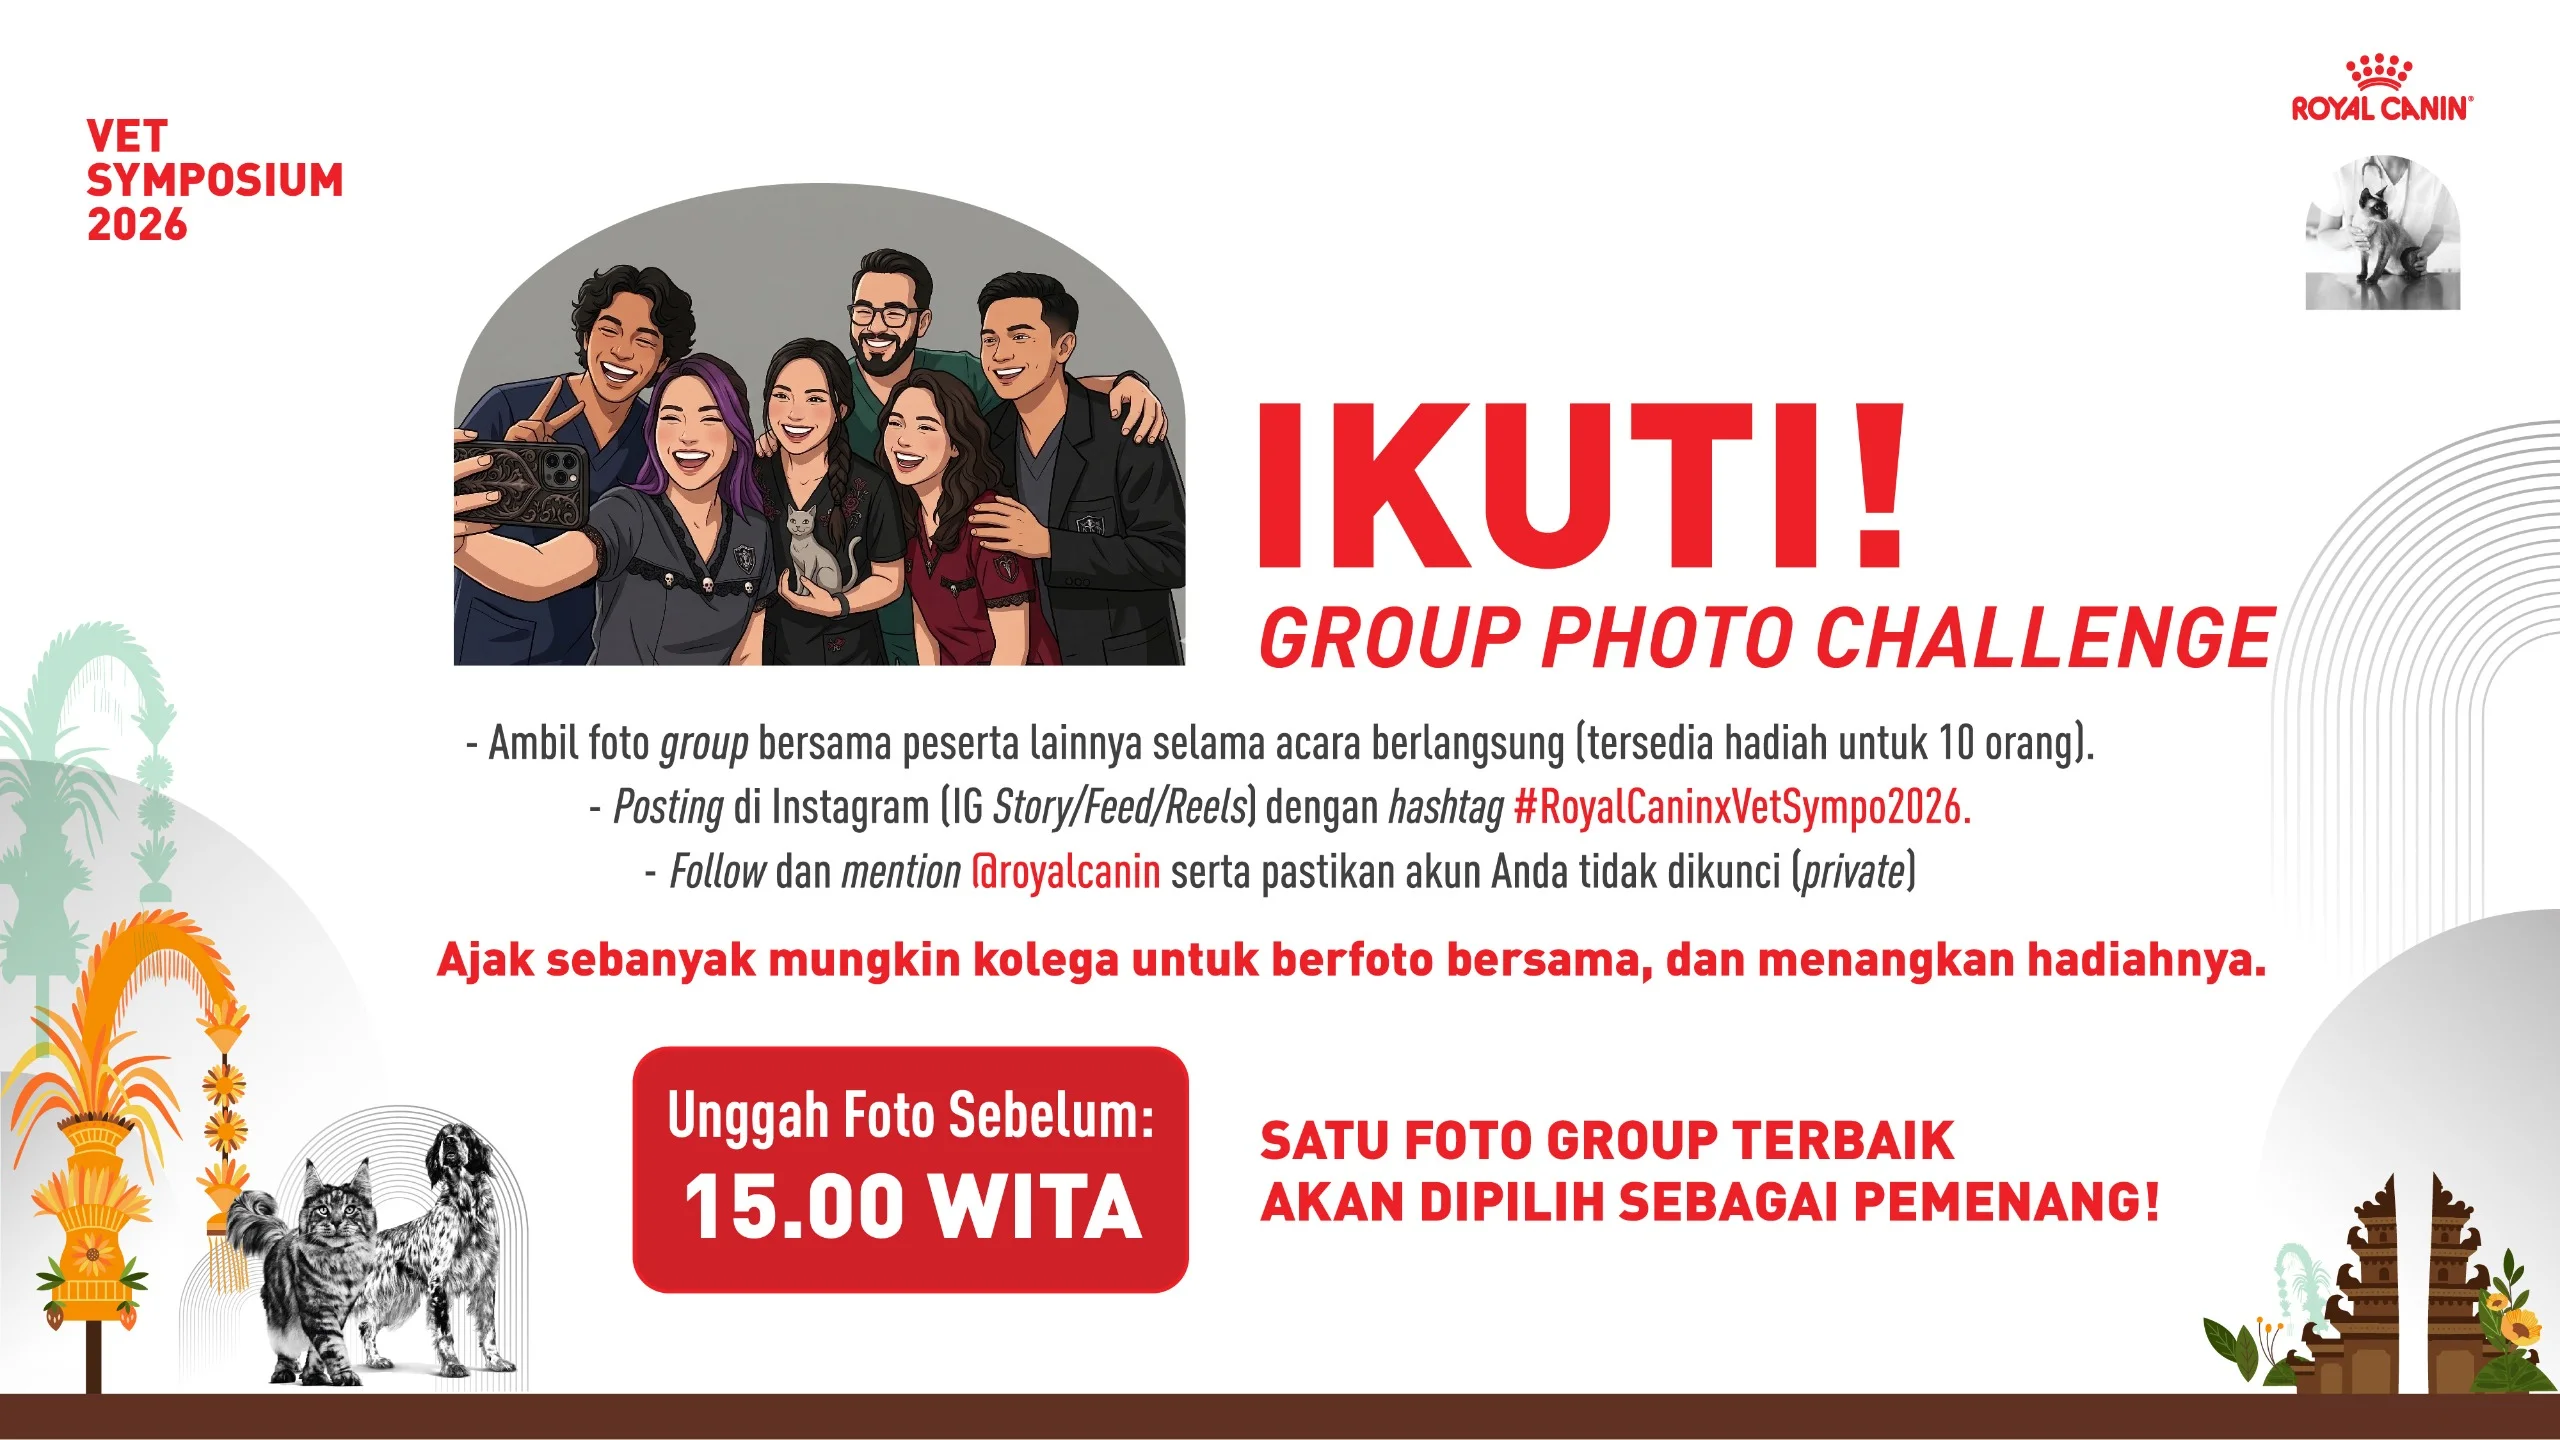
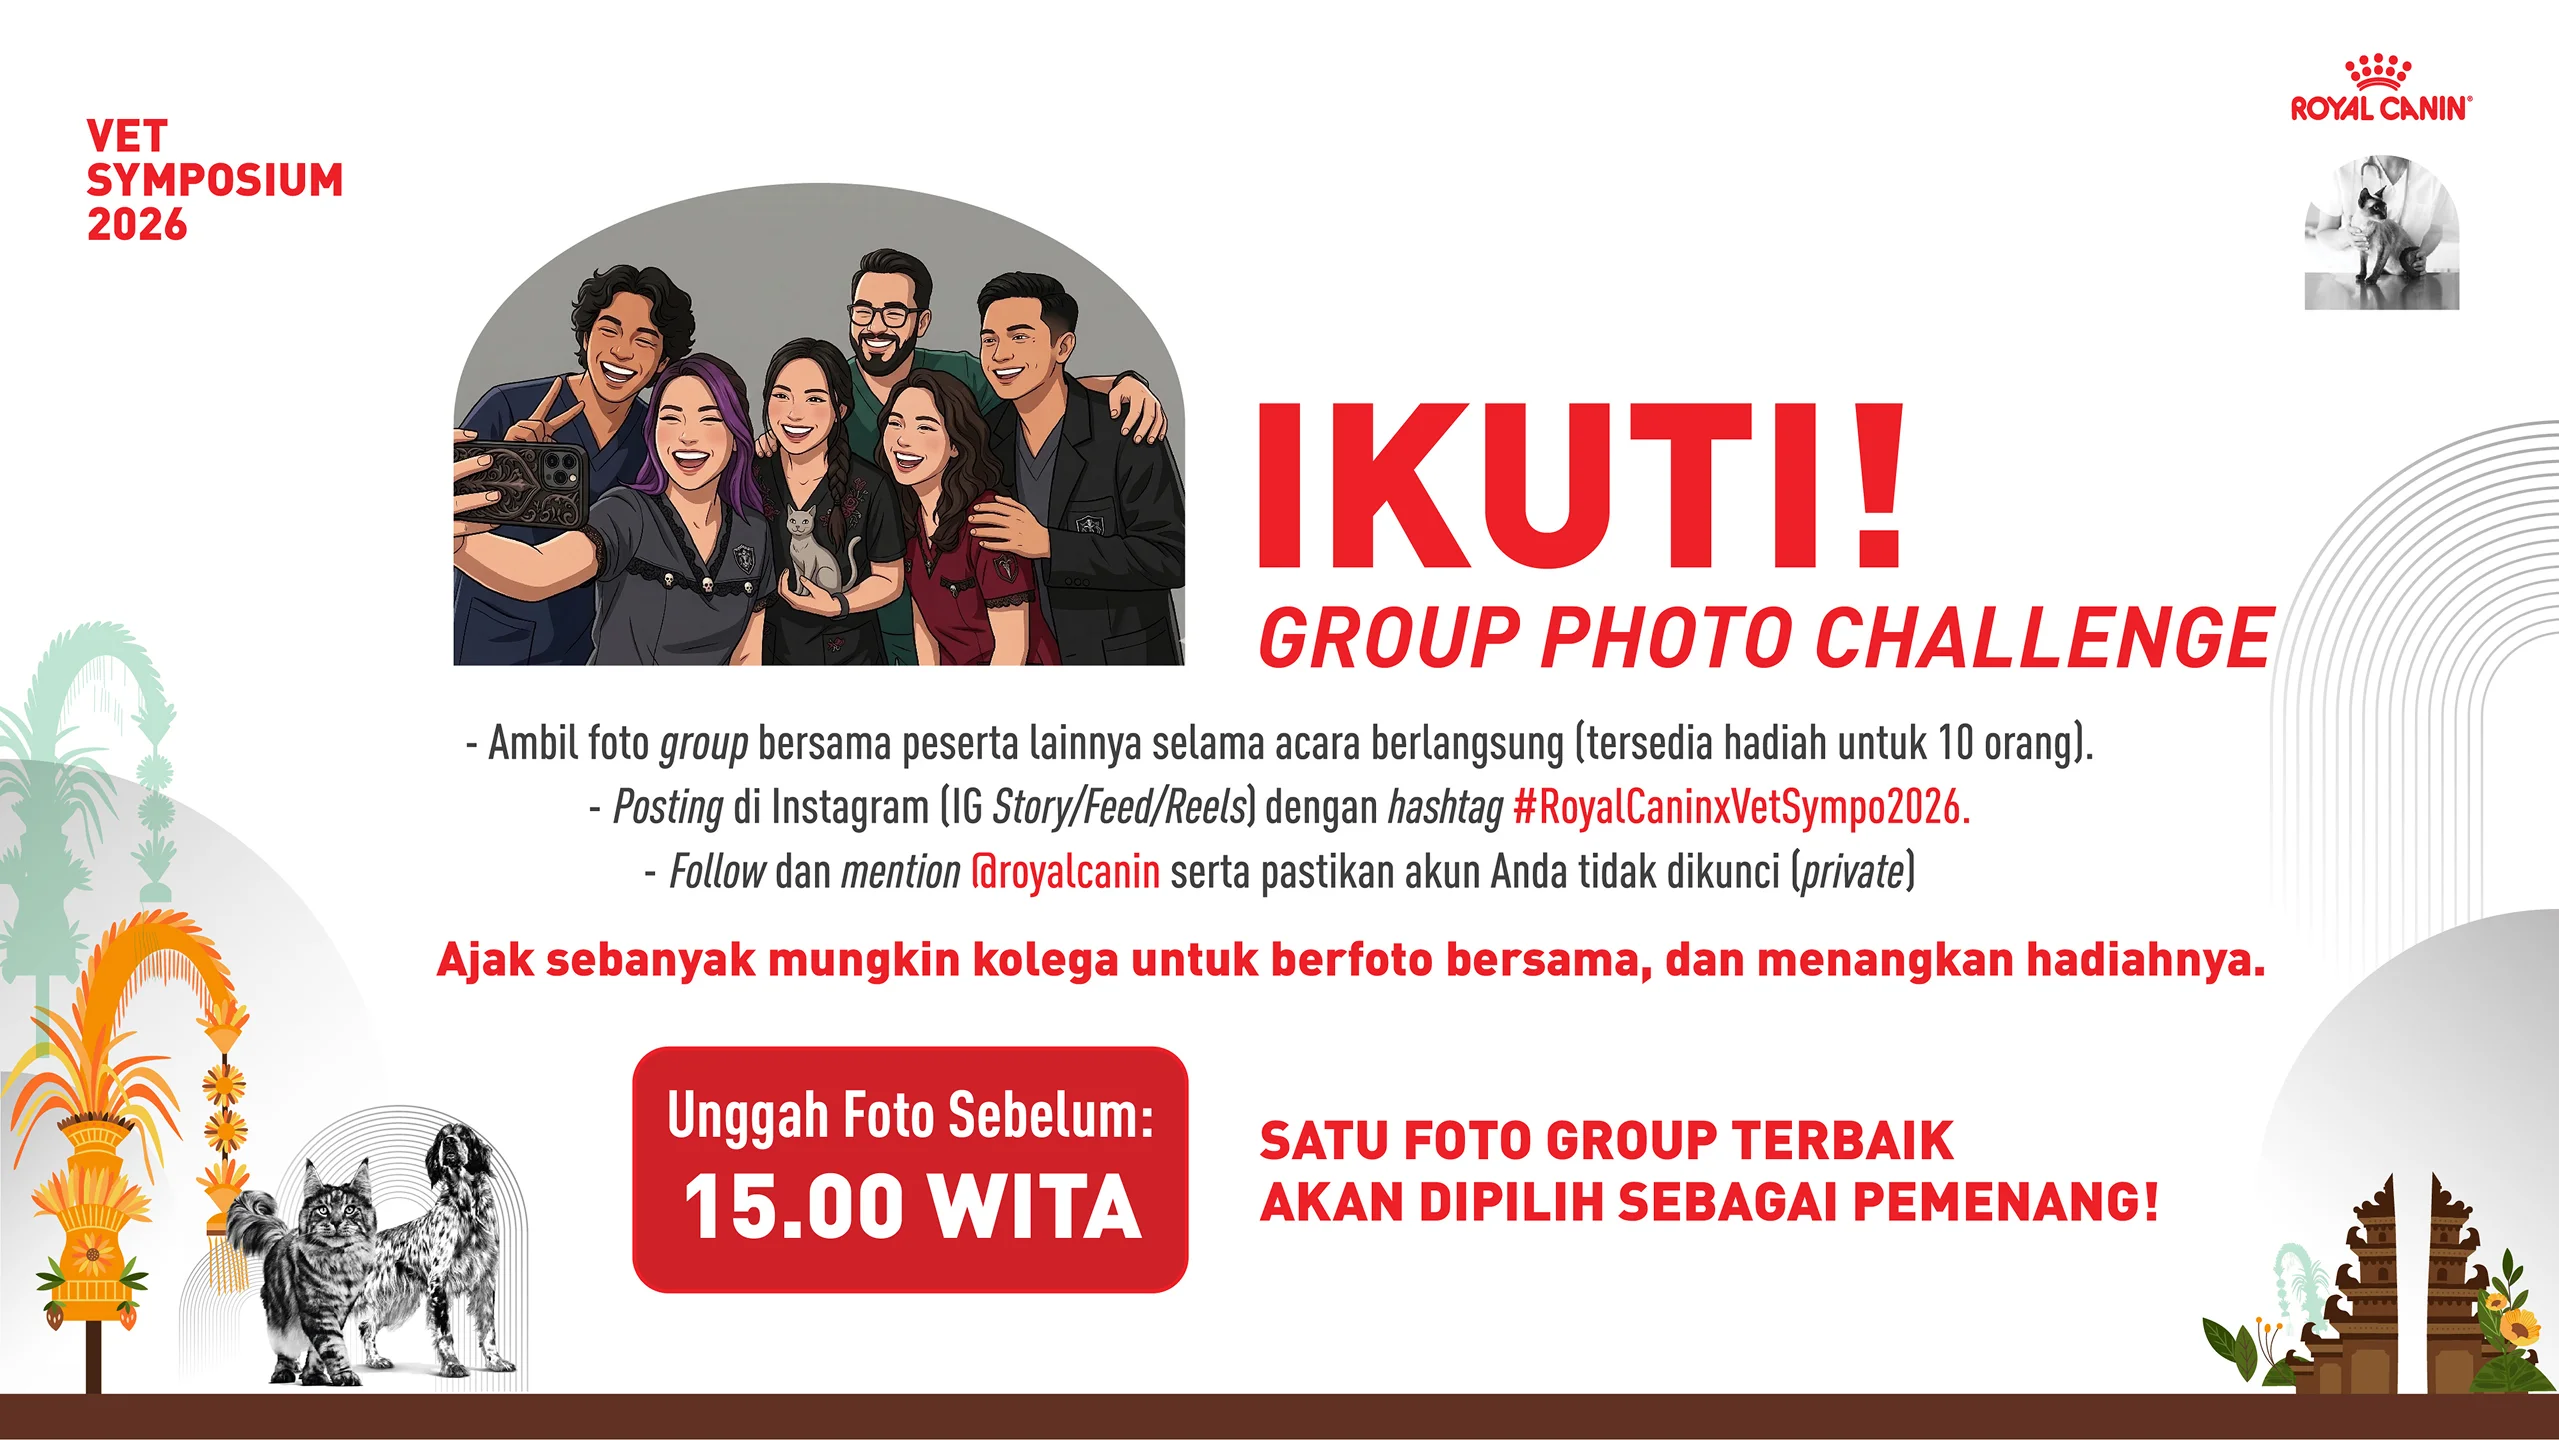
update: adjust scheduler open button & menu for opening event

diff --git a/src/app/event/schedule/page.tsx b/src/app/event/schedule/page.tsx
@@ -1,5 +1,12 @@
 import Link from 'next/link';
 import { ScheduleMaterialDownloadButton } from '@/components/event/ScheduleMaterialDownloadButton';
+import {
+  MATERIAL_DOWNLOAD_P1_OPEN_AT,
+  MATERIAL_DOWNLOAD_P2_OPEN_AT,
+  MATERIAL_DOWNLOAD_P3_OPEN_AT,
+  MATERIAL_DOWNLOAD_P4_OPEN_AT,
+  MATERIAL_DOWNLOAD_P5_OPEN_AT,
+} from '@/lib/eventMenuFeaturesOpenAt';
 
 type AgendaItem = {
   time: string;
@@ -11,6 +18,8 @@ type AgendaItem = {
   theme?: string;
   isItalic?: boolean;
   materialUrl?: string;
+  /** Epoch ms saat tombol unduh aktif (`Date#getTime()` dari konstanta di `eventMenuFeaturesOpenAt`). */
+  materialOpensAtMs?: number;
 };
 
 const agendaData: AgendaItem[] = [
@@ -30,6 +39,7 @@ const agendaData: AgendaItem[] = [
     duration: '35 Menit',
     title: 'Peluncuran & Presentasi Produk',
     materialUrl: '/assets/pdf/Panduan-Nutrisi-Praktis.pdf',
+    materialOpensAtMs: MATERIAL_DOWNLOAD_P1_OPEN_AT.getTime(),
   },
   {
     time: '09.55 - 10.20',
@@ -45,7 +55,8 @@ const agendaData: AgendaItem[] = [
     title: 'Sesi Seminar Bersama:',
     speaker: 'Dr. Adam J. Rudinsky, DVM, MS, DACVIM (SAIM)',
     theme: 'Fibre Forward: Unlocking The Power of Fibre in Managing GI Health',
-    materialUrl: '/assets/pdf/Fibre-Forward.pdf',
+    materialUrl: '/assets/pdf/Panduan-Nutrisi-Praktis.pdf',
+    materialOpensAtMs: MATERIAL_DOWNLOAD_P2_OPEN_AT.getTime(),
   },
   {
     time: '11.20 - 12.20',
@@ -54,7 +65,8 @@ const agendaData: AgendaItem[] = [
     speaker: 'Dr. Adam J. Rudinsky, DVM, MS, DACVIM (SAIM)',
     theme:
       'Dietary Fiber Aids in The Management of Cat and Dog Gastrointestinal Disease',
-    materialUrl: '/assets/pdf/Dietary-Fiber.pdf',
+    materialUrl: '/assets/pdf/Panduan-Nutrisi-Praktis.pdf',
+    materialOpensAtMs: MATERIAL_DOWNLOAD_P3_OPEN_AT.getTime(),
   },
   {
     time: '12.20 - 13.40',
@@ -71,7 +83,8 @@ const agendaData: AgendaItem[] = [
     speaker: 'Prof. drh. Deni Noviana, Ph.D., DAiCVIM',
     theme:
       'Diagnostic Imaging of Gastrointestinal Disorders in Cats and Dogs: Focus on Fibre-Related and Common Clinical Conditions',
-    materialUrl: '/assets/pdf/Diagnostic-Imaging.pdf',
+    materialUrl: '/assets/pdf/Panduan-Nutrisi-Praktis.pdf',
+    materialOpensAtMs: MATERIAL_DOWNLOAD_P4_OPEN_AT.getTime(),
   },
   {
     time: '14.40 - 15.40',
@@ -80,7 +93,8 @@ const agendaData: AgendaItem[] = [
     speaker: 'drh. Luh Putu Listriani Wistawan',
     theme:
       'From Diagnosis to Therapy: Case-Based Insights and Nutritional Guidance for Fibre-Related GI Problems',
-    materialUrl: '/assets/pdf/From-Diagnosis-to-Therapy.pdf',
+    materialUrl: '/assets/pdf/Panduan-Nutrisi-Praktis.pdf',
+    materialOpensAtMs: MATERIAL_DOWNLOAD_P5_OPEN_AT.getTime(),
   },
   {
     time: '15.40 - 16.05',
@@ -164,9 +178,10 @@ export default function AgendaPage() {
                     Durasi: {item.duration}
                   </p>
                 ) : null}
-                {showMaterialButton ? (
+                {showMaterialButton && item.materialOpensAtMs != null ? (
                   <ScheduleMaterialDownloadButton
                     href={item.materialUrl ?? '#'}
+                    opensAtMs={item.materialOpensAtMs}
                   />
                 ) : null}
               </div>

diff --git a/src/lib/eventMenuFeaturesOpenAt.ts b/src/lib/eventMenuFeaturesOpenAt.ts
@@ -1,25 +1,48 @@
-/** WITA — menu Informasi Umum, Kuis, dan Activity (bottom nav) aktif dari waktu ini. */
-export const EVENT_MENU_FEATURES_OPEN_AT = new Date(
-  '2026-05-04T21:00:00+08:00',
-);
-
-/** WITA — tombol Kirim Pertanyaan & Beri Tanggapan di halaman Seminar tampil dari waktu ini. */
-export const SEMINAR_BOTTOM_ACTIONS_OPEN_AT = new Date(
-  '2026-05-04T10:00:00+08:00',
-);
-
-/** WITA — tombol Unduh Materi pada item agenda “Sesi Seminar Bersama” aktif dari waktu ini. */
-export const SCHEDULE_MATERIAL_DOWNLOAD_OPEN_AT = new Date(
-  '2026-05-04T22:00:00+08:00',
-);
-
-
-/** WITA — tombol Check-In aktif dari waktu ini. */
-export const CHECKIN_OPENS_AT = new Date(
-  '2026-05-04T07:55:00+08:00',
-);
-
-/** WITA — carousel banner beranda `/event` tampil dari 5 Mei pukul 00:00 WITA (tengah malam). */
+/** WITA 4 Mei 2026 00:00 — carousel banner beranda `/event` tampil dari 4 Mei pukul 00:00 WITA (tengah malam). */
 export const HOME_BANNER_VISIBLE_AT = new Date(
-  '2026-05-05T00:00:00+08:00',
+  '2026-05-04T00:00:00+08:00',
 );
+
+/** WITA 5 Mei 2026 06:00 — Button Check-In aktif dari waktu ini. */
+export const CHECKIN_OPENS_AT = new Date(
+  '2026-05-05T06:00:00+08:00',
+);
+
+/** WITA 5 Mei 2026 06:00 — Menu Informasi Umum, Kuis, dan Activity (bottom nav) aktif dari waktu ini. */
+export const EVENT_MENU_FEATURES_OPEN_AT = new Date(
+  '2026-05-05T06:00:00+08:00',
+);
+
+/** WITA 5 Mei 2026 09:15 — Agenda “Peluncuran & Presentasi Produk” menampilkan tombol Unduh Materi. */
+export const MATERIAL_DOWNLOAD_P1_OPEN_AT = new Date(
+  '2026-05-05T09:15:00+08:00',
+);
+
+/** WITA 5 Mei 2026 10:15 — Agenda “Seminar Dr. Adam J. Rudinsky, DVM, MS, DACVIM (SAIM)” menampilkan tombol Unduh Materi. */
+export const MATERIAL_DOWNLOAD_P2_OPEN_AT = new Date(
+  '2026-05-05T10:15:00+08:00',
+);
+
+/** WITA 5 Mei 2026 11:15 — Agenda “Seminar Dr. Adam J. Rudinsky, DVM, MS, DACVIM (SAIM)” menampilkan tombol Unduh Materi. */
+export const MATERIAL_DOWNLOAD_P3_OPEN_AT = new Date(
+  '2026-05-05T11:15:00+08:00',
+);
+
+/** WITA 5 Mei 2026 13:35 — Agenda “Seminar Prof. drh. Deni Noviana, Ph.D., DAiCVIM” menampilkan tombol Unduh Materi. */
+export const MATERIAL_DOWNLOAD_P4_OPEN_AT = new Date(
+  '2026-05-05T13:35:00+08:00',
+);
+
+/** WITA 5 Mei 2026 14:35 — Agenda “Seminar drh. Luh Putu Listriani Wistawan” menampilkan tombol Unduh Materi. */
+export const MATERIAL_DOWNLOAD_P5_OPEN_AT = new Date(
+  '2026-05-05T14:35:00+08:00',
+);
+
+/** WITA 5 Mei 2026 08:00 — Button Kirim Pertanyaan & Beri Tanggapan di halaman Seminar aktif. */
+export const SEMINAR_BOTTOM_ACTIONS_OPEN_AT = new Date(
+  '2026-05-05T08:00:00+08:00',
+);
+
+
+
+

diff --git a/src/components/event/ScheduleMaterialDownloadButton.tsx b/src/components/event/ScheduleMaterialDownloadButton.tsx
@@ -2,29 +2,45 @@
 
 import { useEffect, useState } from 'react';
 import { Icon } from '@iconify/react';
-import { SCHEDULE_MATERIAL_DOWNLOAD_OPEN_AT } from '@/lib/eventMenuFeaturesOpenAt';
 
 interface ScheduleMaterialDownloadButtonProps {
   href: string;
+  /** Epoch milliseconds — saat tombol unduh menjadi aktif (`eventMenuFeaturesOpenAt`). */
+  opensAtMs: number;
+}
+
+function formatOpensAtForTitle(opensAtMs: number): string {
+  return (
+    new Intl.DateTimeFormat('id-ID', {
+      timeZone: 'Asia/Makassar',
+      day: 'numeric',
+      month: 'long',
+      year: 'numeric',
+      hour: '2-digit',
+      minute: '2-digit',
+      hour12: false,
+    }).format(new Date(opensAtMs)) + ' WITA'
+  );
 }
 
 export function ScheduleMaterialDownloadButton({
   href,
+  opensAtMs,
 }: ScheduleMaterialDownloadButtonProps) {
   const [downloadEnabled, setDownloadEnabled] = useState(
-    () => Date.now() >= SCHEDULE_MATERIAL_DOWNLOAD_OPEN_AT.getTime()
+    () => Date.now() >= opensAtMs
   );
 
   useEffect(() => {
     if (downloadEnabled) return;
-    const ms = SCHEDULE_MATERIAL_DOWNLOAD_OPEN_AT.getTime() - Date.now();
+    const ms = opensAtMs - Date.now();
     if (ms <= 0) {
       setDownloadEnabled(true);
       return;
     }
     const id = window.setTimeout(() => setDownloadEnabled(true), ms);
     return () => window.clearTimeout(id);
-  }, [downloadEnabled]);
+  }, [downloadEnabled, opensAtMs]);
 
   const baseClass =
     'mt-3 flex w-full items-center justify-center gap-2 rounded-xl border px-4 py-2.5 text-xs font-bold transition';
@@ -34,7 +50,7 @@ export function ScheduleMaterialDownloadButton({
       <button
         type='button'
         disabled
-        title='Unduh materi tersedia mulai 4 Mei 2026 pukul 22.00 WIB'
+        title={`Unduh materi tersedia mulai ${formatOpensAtForTitle(opensAtMs)}`}
         className={`${baseClass} cursor-not-allowed border-neutral-200 bg-neutral-50 text-neutral-400`}>
         <Icon icon='mdi:download-outline' className='h-4 w-4' />
         Unduh Materi

diff --git a/src/app/event/page.tsx b/src/app/event/page.tsx
@@ -19,7 +19,7 @@ import {
 } from '@/lib/eventMenuFeaturesOpenAt';
 import type { VerifiedUserData } from '@/types/registration';
 
-const EVENT_DATE = new Date('2026-05-05T04:00:00+08:00');
+const EVENT_DATE = new Date('2026-05-05T06:00:00+08:00');
 const QR_STORAGE_BASE = `${process.env.NEXT_PUBLIC_API_BASE_URL}/storage/`;
 const POLL_INTERVAL = 3000;
 
